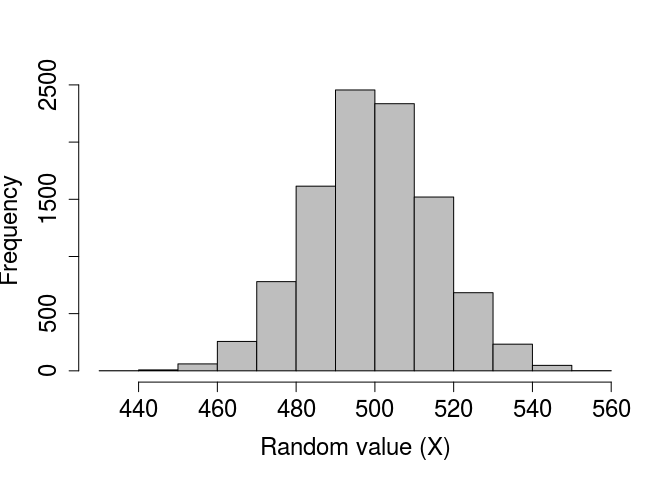
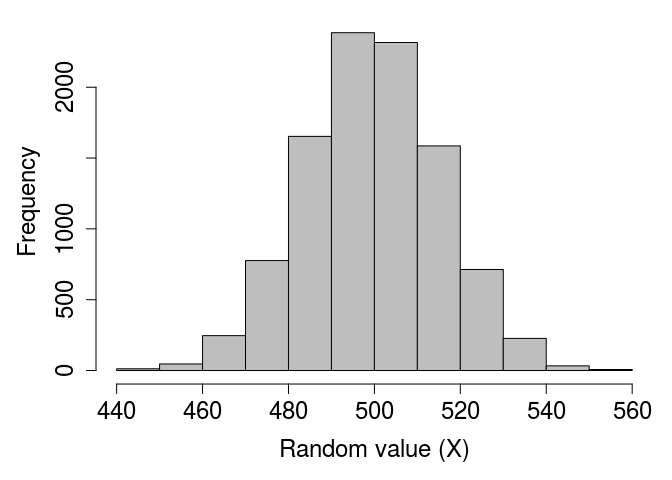
Fix all again

diff --git a/_posts/2019-02-10-randomisation-methods-in-r.md b/_posts/2019-02-10-randomisation-methods-in-r.md
@@ -40,13 +40,14 @@ rand_norms_10 <- rnorm(n = 10, mean = 0, sd = 1);
 
 The above code stores a vector of ten numbers, shown below.
 
-    ##  [1]  0.2383358  0.4672784  1.1340229  0.3207790 -0.6198568 -1.0817465
-    ##  [7]  1.6719394 -0.9985682  0.6245402  0.4668143
+    ##  [1]  0.56032556 -1.35549530  0.61270795 -0.21811727  0.93689783
+    ##  [6] -0.34447598  0.02599561  0.82958708  0.29730677 -0.12818812
 
 We can verify that a standard normal distribution is generated by plotting a histogram of a very large number of values created using `rnorm`.
 
 ```  r
 rand_norms_10000 <- rnorm(n = 10000, mean = 0, sd = 1);
+par(mar = c(5, 5, 1, 1), bg = NA);
 hist(rand_norms_10000, xlab = "Random value (X)", col = "grey",
      main = "", cex.lab = 1.5, cex.axis = 1.5);
 ``` 
@@ -63,13 +64,14 @@ rand_unifs_10 <- runif(n = 10, min = 0, max = 1);
 
 The above code stores a vector of ten numbers, shown below.
 
-    ##  [1] 0.8249559 0.2526507 0.3118720 0.2159534 0.4731284 0.3809387 0.7815236
-    ##  [8] 0.7313558 0.8685632 0.6916857
+    ##  [1] 0.44878733 0.80168230 0.62459087 0.06000554 0.14890125 0.10015903
+    ##  [7] 0.64862426 0.52635931 0.80827712 0.78126909
 
 As with the randomly generated normally distributed numbers, we can verify that a standard uniform distribution is generated by plotting a histogram of a very large number of values created using `runif`.
 
 ```  r
 rand_unifs_10000 <- runif(n = 10000, min = 0, max = 1);
+par(mar = c(5, 5, 1, 1), bg = NA);
 hist(rand_unifs_10000, xlab = "Random value (X)", col = "grey",
      main = "", cex.lab = 1.5, cex.axis = 1.5);
 ``` 
@@ -85,18 +87,18 @@ coin_flips <- rbinom(n = 1, size = 1000, prob = 0.5);
 print(coin_flips);
 ``` 
 
-    ## [1] 495
+    ## [1] 497
 
-The above result shows that the coin came up heads 495 times. Note, however, the (required) argument `n` above. This allows the user to set the number of sequences to run. In other words, if we set `n = 2`, then this could simulate the flipping of a fair coin 1000 times once to see how many times heads comes up, then repeating the whole process to see how many times heads comes up again (or, if it is more intuitive, the flipping of two separate fair coins 1000 times).
+The above result shows that the coin came up heads 497 times. Note, however, the (required) argument `n` above. This allows the user to set the number of sequences to run. In other words, if we set `n = 2`, then this could simulate the flipping of a fair coin 1000 times once to see how many times heads comes up, then repeating the whole process to see how many times heads comes up again (or, if it is more intuitive, the flipping of two separate fair coins 1000 times).
 
 ```  r
 coin_flips_2 <- rbinom(n = 2, size = 1000, prob = 0.5);
 print(coin_flips_2);
 ``` 
 
-    ## [1] 504 501
+    ## [1] 497 492
 
-In the above, a fair coin was flipped 1000 times and returned 504 heads, and then another fair coin was flipped 1000 times and returned 501 heads. As with the `rnorm` and `runif` functions, we can check to see what the distribution of the binomial function looks like if we repeat this process. Suppose, in other words, that we want to see the distribution of times heads comes up after 1000 flips. We can, for example, simulate the process of flipping 1000 times in a row with 10000 different coins using the code below.
+In the above, a fair coin was flipped 1000 times and returned 497 heads, and then another fair coin was flipped 1000 times and returned 492 heads. As with the `rnorm` and `runif` functions, we can check to see what the distribution of the binomial function looks like if we repeat this process. Suppose, in other words, that we want to see the distribution of times heads comes up after 1000 flips. We can, for example, simulate the process of flipping 1000 times in a row with 10000 different coins using the code below.
 
 ```  r
 coin_flips_10000 <- rbinom(n = 10000, size = 1000, prob = 0.5);
@@ -105,6 +107,7 @@ coin_flips_10000 <- rbinom(n = 10000, size = 1000, prob = 0.5);
 I have not printed the above `coin_flips_10000` for obvious reasons, but we can use a histogram to look at the results.
 
 ```  r
+par(mar = c(5, 5, 1, 1), bg = NA);
 hist(coin_flips_10000, xlab = "Random value (X)", col = "grey",
      main = "", cex.lab = 1.5, cex.axis = 1.5);
 ``` 
@@ -117,7 +120,7 @@ As would be expected, most of the time 'heads' occurs around 500 times out of 10
 flips_10 <- rbinom(n = 10, size = 1, prob = 0.5);
 ``` 
 
-    ##  [1] 1 1 1 1 1 1 0 0 0 1
+    ##  [1] 1 0 0 1 1 0 0 0 0 0
 
 In the above, there are `n = 10` trials, but each trial consists of only a single coin flip (`size = 1`). But we can equally well interpret the results as a series of `n` coin flips that come up either heads (`1`) or tails (`0`). This latter interpretation can be especially useful to write code that randomly decides whether some event will happen (`1`) or not (`0`) with some probability `prob`.
 
@@ -130,12 +133,13 @@ rand_poissons <- rpois(n = 10, lambda = 1);
 print(rand_poissons);
 ``` 
 
-    ##  [1] 0 1 0 2 2 0 1 3 0 1
+    ##  [1] 1 2 1 4 1 0 2 0 1 0
 
 There are no default values for `rpois`. We can plot a histogram of a large number of values to see the distribution when *λ* = 4 below.
 
 ```  r
 rand_poissons_10000 <- rpois(n = 10000, lambda = 4);
+par(mar = c(5, 5, 1, 1), bg = NA);
 hist(rand_poissons_10000, xlab = "Random value (X)", col = "grey",
      main = "", cex.lab = 1.5, cex.axis = 1.5);
 ``` 
@@ -150,14 +154,14 @@ Sometimes it is useful to sample a set of values from a vector or list. The R fu
 rand_number_1 <- sample(x = 1:10, size = 1);
 ``` 
 
-The above code will set `rand_number_1` to a randomly selected value, in this case 9. Because we have not specified a probability vector `prob`, the function assumes that every element in `1:10` is sampled with equal probability. We can increase the `size` of the sample to `10` below.
+The above code will set `rand_number_1` to a randomly selected value, in this case 5. Because we have not specified a probability vector `prob`, the function assumes that every element in `1:10` is sampled with equal probability. We can increase the `size` of the sample to `10` below.
 
 ```  r
 rand_number_10 <- sample(x = 1:10, size = 10);
 print(rand_number_10);
 ``` 
 
-    ##  [1]  8  9 10  3  2  1  4  6  7  5
+    ##  [1]  2  3  7  1  4  9  6  8 10  5
 
 Note that all numbers from 1 to 10 have been sampled, but in a random order. This is becaues the default is to sample with replacement, meaning that once a number has been sampled for the first element in `rand_number_10`, it is no longer available to be sampled again. To change this and allow for sampling with replacement, we can change the default.
 
@@ -166,9 +170,9 @@ rand_number_10_r <- sample(x = 1:10, size = 10, replace = TRUE);
 print(rand_number_10_r);
 ``` 
 
-    ##  [1] 10  6  3  3  8  4 10 10  9  9
+    ##  [1] 10  3  4  3  4  8  4  2  5  4
 
-Note that the numbers {3, 9, 10} are now repeated in the set of randomly sampled values above. We can also specify the probability of sampling each element, with the condition that these probabilities need to sum to 1. Below shows an example in which the numbers 1-5 are sampled with a probability of 0.05, while the numbers 6-10 are sampled with a probability of 0.15, thereby biasing sampling toward larger numbers.
+Note that the numbers {3, 4} are now repeated in the set of randomly sampled values above. We can also specify the probability of sampling each element, with the condition that these probabilities need to sum to 1. Below shows an example in which the numbers 1-5 are sampled with a probability of 0.05, while the numbers 6-10 are sampled with a probability of 0.15, thereby biasing sampling toward larger numbers.
 
 ```  r
 prob_vec      <- c( rep(x = 0.05, times = 5), rep(x = 0.15, times = 5) );
@@ -176,7 +180,7 @@ rand_num_bias <- sample(x = 1:10, size = 10, replace = TRUE, prob = prob_vec);
 print(rand_num_bias);
 ``` 
 
-    ##  [1]  1 10  7  6  6  9  8  6  7  6
+    ##  [1] 9 6 9 1 9 5 7 7 5 9
 
 Note that `rand_num_bias` above contains more numbers from 6-10 than from 1-5.
 
@@ -203,18 +207,18 @@ print(ChickWeight[rand_rows,]);
 ``` 
 
     ##     weight Time Chick Diet
-    ## 291    236   20    26    2
-    ## 359    159   12    32    3
-    ## 146     53    4    13    1
-    ## 85      42    0     8    1
-    ## 98      59    4     9    1
-    ## 254    163   18    23    2
-    ## 577    264   20    50    4
-    ## 427     61    4    38    3
-    ## 533     66    4    47    4
-    ## 268     74   21    24    2
+    ## 532     53    2    47    4
+    ## 350    204   18    31    3
+    ## 187     83    8    17    1
+    ## 30      99   10     3    1
+    ## 478    126   10    42    4
+    ## 125    139   10    11    1
+    ## 352    256   21    31    3
+    ## 166    259   20    14    1
+    ## 216     89   14    20    1
+    ## 86      50    2     8    1
 
-The above now shows a random collection of rows, including 291, 359, 146, 85, 98, 254, 577, 427, 533, 268.
+The above now shows a random collection of rows, including 532, 350, 187, 30, 478, 125, 352, 166, 216, 86.
 
 Finally, this kind of sampling does not need to be done only on subsets of numbers. Lists of characters can also be sampled using `sample`. We can take a look at this using the in-built data set `mtcars` in R, in which each row name is a different car. We can get the car names using the R function `rownames`, which will return a full list of all the cars in the data set.
 
@@ -255,9 +259,9 @@ cars_sampled <- sample(x = car_names, size = 2, replace = FALSE);
 print(cars_sampled);
 ``` 
 
-    ## [1] "Toyota Corolla" "Duster 360"
+    ## [1] "Merc 280"    "Honda Civic"
 
-With this procedure, we have therefore sampled Toyota Corolla and Duster 360. There are even more types of structures `x` that can be sampled with `sample`, but for now I will move on to using `sample` for statistical hypothesis sampling.
+With this procedure, we have therefore sampled Merc 280 and Honda Civic. There are even more types of structures `x` that can be sampled with `sample`, but for now I will move on to using `sample` for statistical hypothesis sampling.
 
 <a name="rand_h">Randomisation for hypothesis testing</a>
 =========================================================
@@ -326,6 +330,7 @@ We could equally well calculate a t-statistic within the loop, or even the diffe
 xlabel <- expression( paste("Random group mean difference (", 
                             mu[alive] - mu[dead], ")" )
                       ); # Gets the Greek mu with subscripts
+par(mar = c(5, 5, 1, 1), bg = NA);
 hist(diff, xlab = xlabel, col = "grey", main = "", cex.lab = 1.5, 
      cex.axis = 1.5, breaks = 20);
 ``` 
@@ -351,7 +356,7 @@ total_generated   <- length(diff) + 1;
 new_p_value       <- less_or_equal_obs / total_generated;
 ``` 
 
-Using the randomisation method, we get a value of *P*= 0.0059. Note that this p-value would change slightly if we were to re-run the analysis, but not by much if a the number of times we resample is sufficiently high<sup>[1](#foot1)</sup>. Also note that the p-value we obtained after randomisation is quite close to the value obtained from the standard t-test, which was 0.0066047. Conceptually, the two tests are doing the same thing -- assuming that the mean value of one group is not less than the mean value of another group, and asking what the probability is of getting such a low difference in means would be if this assumption were in fact true. This was a very basic example of a randomisation test in R, but I hope that it illustrates how useful randomisation for hypothesis testing can be. Randomisation is a highly flexible tool, which allows researchers to test hypotheses that might be otherwise difficult to address due to restrictive stastical assumptions of standard tests or peculariarites of specific data sets. It is, of course, important to carefully consider what needs to be randomised for a particular question of interest to ensure that the appropriate null distribution is generated.
+Using the randomisation method, we get a value of *P*= 0.0058. Note that this p-value would change slightly if we were to re-run the analysis, but not by much if a the number of times we resample is sufficiently high [1](#foot1). Also note that the p-value we obtained after randomisation is quite close to the value obtained from the standard t-test, which was 0.0066047. Conceptually, the two tests are doing the same thing -- assuming that the mean value of one group is not less than the mean value of another group, and asking what the probability is of getting such a low difference in means would be if this assumption were in fact true. This was a very basic example of a randomisation test in R, but I hope that it illustrates how useful randomisation for hypothesis testing can be. Randomisation is a highly flexible tool, which allows researchers to test hypotheses that might be otherwise difficult to address due to restrictive stastical assumptions of standard tests or peculariarites of specific data sets. It is, of course, important to carefully consider what needs to be randomised for a particular question of interest to ensure that the appropriate null distribution is generated.
 
 <a name="rand_b">Bootstrapping confidence intervals</a>
 =======================================================
@@ -373,18 +378,18 @@ for(i in 1:N_birds){
 sd_resampled_means <- sd(resampled_means);
 ``` 
 
-In the above loop, 10<sup>4</sup> new data sets of 136 sparrow lengths are generated with replacement to create `resampled_totlen`. The mean of these resampled sparrow total lengths is calculated and appended to `resampled_means`. Outside of the loop, the standard deviation of the `resampled_means` is calculated to be 0.315408. Again, this standard deviation estimates what the standard deviation of *estimated mean* values of sparrow length would be if we were to go out and re-collect the same number of sparrows that Bumpus did. The standard deviation of means is, by definition, a standard error, so we can use this standard deviation to calculate 95% confidence intervals just as we would with the standard error of the original data.
+In the above loop, 10<sup>4</sup> new data sets of 136 sparrow lengths are generated with replacement to create `resampled_totlen`. The mean of these resampled sparrow total lengths is calculated and appended to `resampled_means`. Outside of the loop, the standard deviation of the `resampled_means` is calculated to be 0.3368166. Again, this standard deviation estimates what the standard deviation of *estimated mean* values of sparrow length would be if we were to go out and re-collect the same number of sparrows that Bumpus did. The standard deviation of means is, by definition, a standard error, so we can use this standard deviation to calculate 95% confidence intervals just as we would with the standard error of the original data.
 
 ![](../images/2019-02-10-randomisation-methods-in-r_files/figure-markdown_github/CI_sd.png)
 
-In the above, *μ*<sub>*l**e**n*</sub> is the true mean total sparrow length, *σ* is the standard deviation of the resampled means (`sd_resampled_means` in the code above), and *z*<sub>*α*/2</sub> is the corresponding *z* score from the standard normal distribution for which the probility exceeds *α*/2 (for a 95% confidence interval, this value is 1.96). Note again the hats above *μ* to differentiate the parameter estimate ($\\hat\\mu\_{len}$) from the true parameter (*μ*<sub>*l**e**n*</sub>). We can then simply substitute *z*<sub>*α*/2</sub> = 1.96, *σ*= `sd_resampled_means` = 0.315408, and $\\hat\\mu\_{len} =$ `mean(birds[,3])` = 159.5441176 to get the following 95% confidence intervals.
+In the above, *μ*<sub>*l**e**n*</sub> is the true mean total sparrow length, *σ* is the standard deviation of the resampled means (`sd_resampled_means` in the code above), and *z*<sub>*α*/2</sub> is the corresponding *z* score from the standard normal distribution for which the probility exceeds *α*/2 (for a 95% confidence interval, this value is 1.96). Note again the hats above *μ* to differentiate the parameter estimate ($\\hat\\mu\_{len}$) from the true parameter (*μ*<sub>*l**e**n*</sub>). We can then simply substitute *z*<sub>*α*/2</sub> = 1.96, *σ*= `sd_resampled_means` = 0.3368166, and $\\hat\\mu\_{len} =$ `mean(birds[,3])` = 159.5441176 to get the following 95% confidence intervals.
 
 ```  r
 lower_95CI <- mean(birds[,3]) - 1.96 * sd_resampled_means;
 upper_95CI <- mean(birds[,3]) + 1.96 * sd_resampled_means;
 ``` 
 
-This results in an estimated mean total bird length of 159.5441176 with a lower 95% confidence interval of 158.925918 and an upper 95% confidence interval of 160.1623173. We can compare this with 95% confidence intervals calculated in the standard way using standard errors from the song sparrow data set as follows.
+This results in an estimated mean total bird length of 159.5441176 with a lower 95% confidence interval of 158.883957 and an upper 95% confidence interval of 160.2042783. We can compare this with 95% confidence intervals calculated in the standard way using standard errors from the song sparrow data set as follows.
 
 ![](../images/2019-02-10-randomisation-methods-in-r_files/figure-markdown_github/CI_se.png)
 
@@ -425,7 +430,7 @@ The first six rows are shown below.
 | S172 | T04  |  28.29127|  -113.1127|   653.3367|
 | S172 | T05A |  28.29110|  -113.1125|   676.8889|
 
-We can plot the latitude and longitude of each of the 59 trees below. The brown box shows the study plot at the field site, randomly set<sup>[2](#foot2)</sup> from latitude 28.289 to 28.2918 and longitude -113.1145 to -113.1095.
+We can plot the latitude and longitude of each of the 59 trees below. The brown box shows the study plot at the field site, randomly set [2](#foot2) from latitude 28.289 to 28.2918 and longitude -113.1145 to -113.1095.
 
 ```  r
 lat1 <-  28.289;
@@ -508,9 +513,9 @@ I hope that the above introduction has been helpful for showing some different k
 References
 ==========
 
-<a name="foot1">1.</a>: It is *not* acceptable, of course, to re-run a randomisation analysis until acheiving some p-value that is below a desired threshold.
+<a name="foot1">\[1\]</a>: It is *not* acceptable, of course, to re-run a randomisation analysis until acheiving some p-value that is below a desired threshold.
 
-<a name="foot2"></a>: No, not really. The actual objective was not to randomly sample trees within a given area, but rather to map all of the trees that we could find for a variety of different purposes. But it is useful for illustration to pretend that we had instead sampled trees within a fixed area described by the brown box above.
+<a name="foot2">\[2\]</a>: No, not really. The actual objective was not to randomly sample trees within a given area, but rather to map all of the trees that we could find for a variety of different purposes. But it is useful for illustration to pretend that we had instead sampled trees within a fixed area described by the brown box above.
 
 Bumpus, Hermon C. 1898. “Eleventh lecture. The elimination of the unfit as illustrated by the introduced sparrow, Passer domesticus. (A fourth contribution to the study of variation.).” *Biological Lectures: Woods Hole Marine Biological Laboratory*, 209–25.
 
